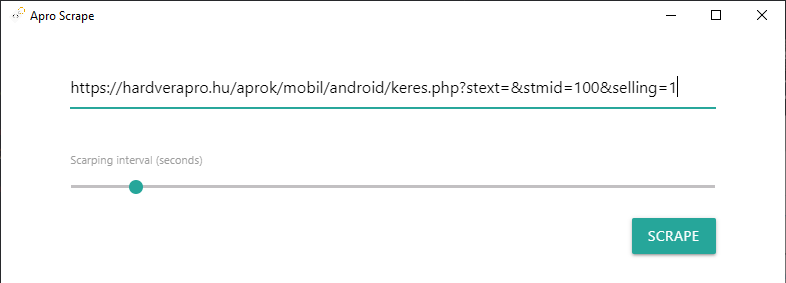
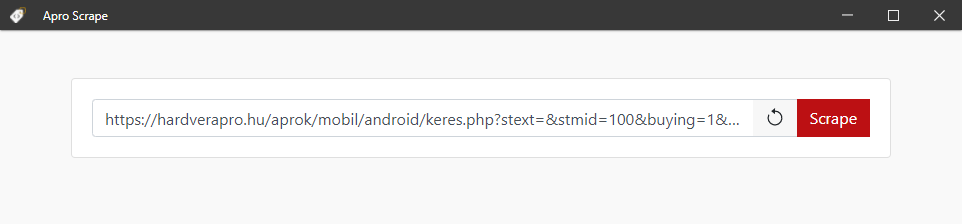
minor ui and readme adjustments before release

diff --git a/src/renderer/App.vue b/src/renderer/App.vue
@@ -1,5 +1,5 @@
 <template>
-  <b-container id="app">
+  <b-container fluid id="app">
     <b-card class="mb-3 mt-5">
       <scraping-form
         @submit="startScraping($event)"
@@ -80,7 +80,7 @@ button {
 }
 
 #app {
-  width: min(750px, 95%);
+  width: min(850px, 95%);
 }
 
 /** Input */

diff --git a/src/renderer/components/ScrapingForm.vue b/src/renderer/components/ScrapingForm.vue
@@ -4,6 +4,7 @@
       <b-input-group>
         <b-form-input
           v-model="url"
+          class="text-truncate"
           :class="{ 'is-invalid': hasError }"
           :disabled="scraping"
           placeholder="Enter HardverApro URL"

diff --git a/README.md b/README.md
@@ -35,7 +35,7 @@ and paste the link to the input field on the top.
 
 <img src="docs/images/main-window.png" alt="AproScrape main window" width="650">
 
-Press the `SCRAPE` button, and you should see deals from the website.
+Press the `Scrape` button, and you should see deals from the website.
 
 Here comes the fun part: If you minimize the window, it will hide to the taskbar,
 and display a notification when it finds new items!

diff --git a/docs/README.md b/docs/README.md
@@ -24,3 +24,7 @@ npm build
 
 This will create the `dist_electron` folder in the project's root directory with the binaires for your
 platform.
+
+## Creating new release
+
+See: <https://github.com/samuelmeuli/action-electron-builder#releasin>
